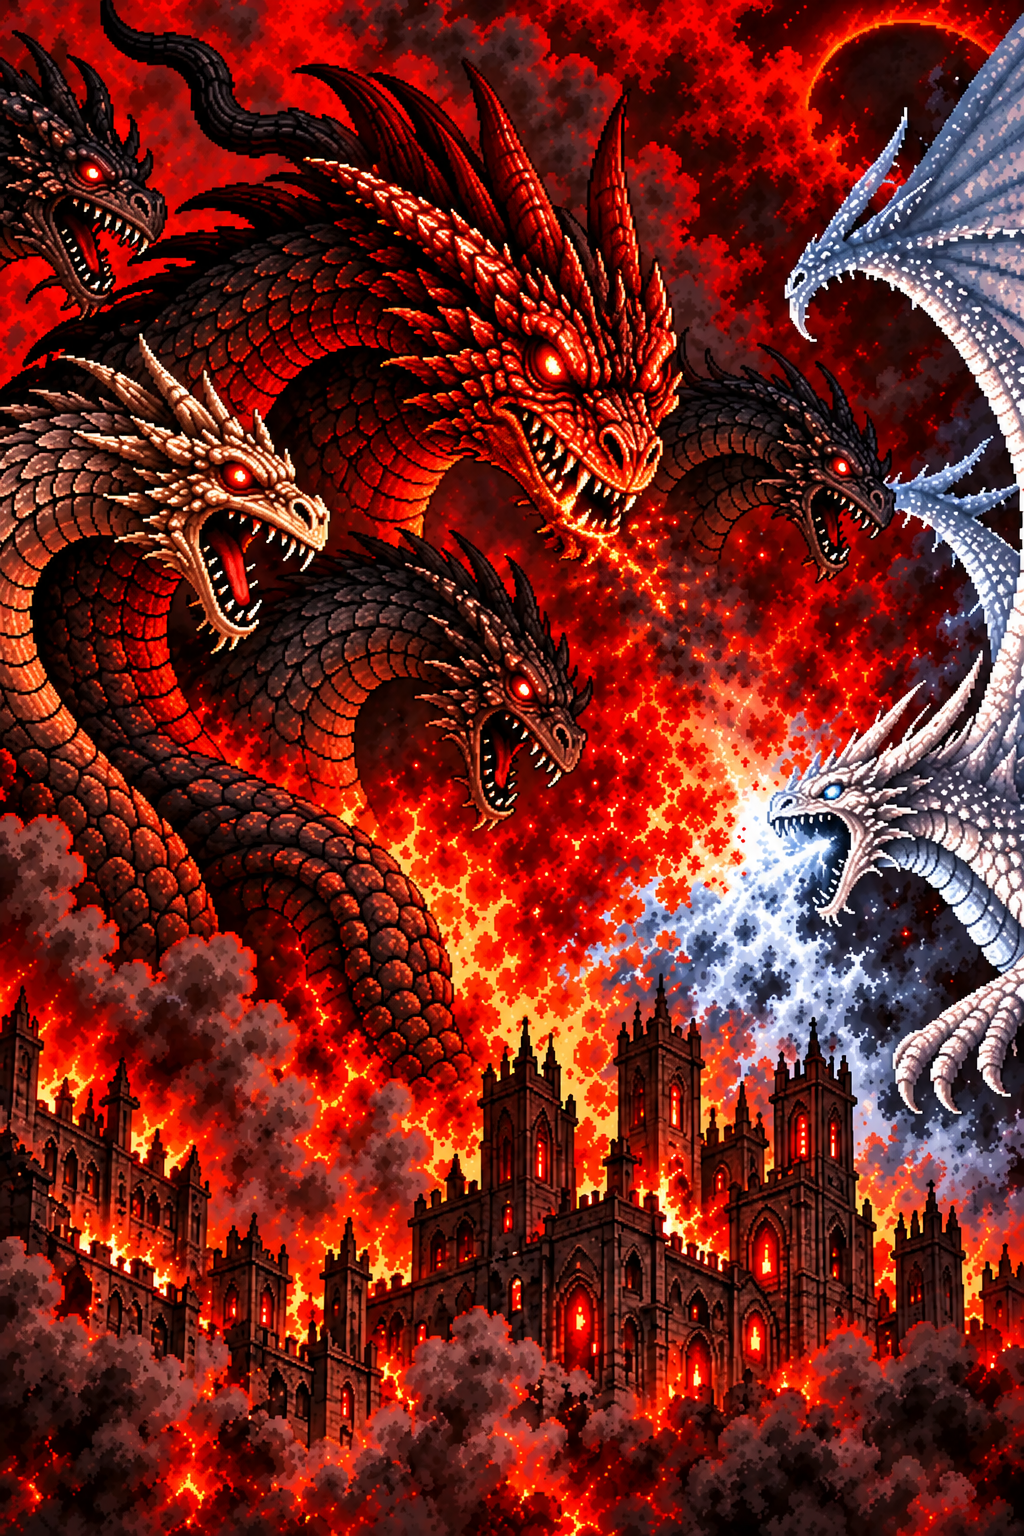
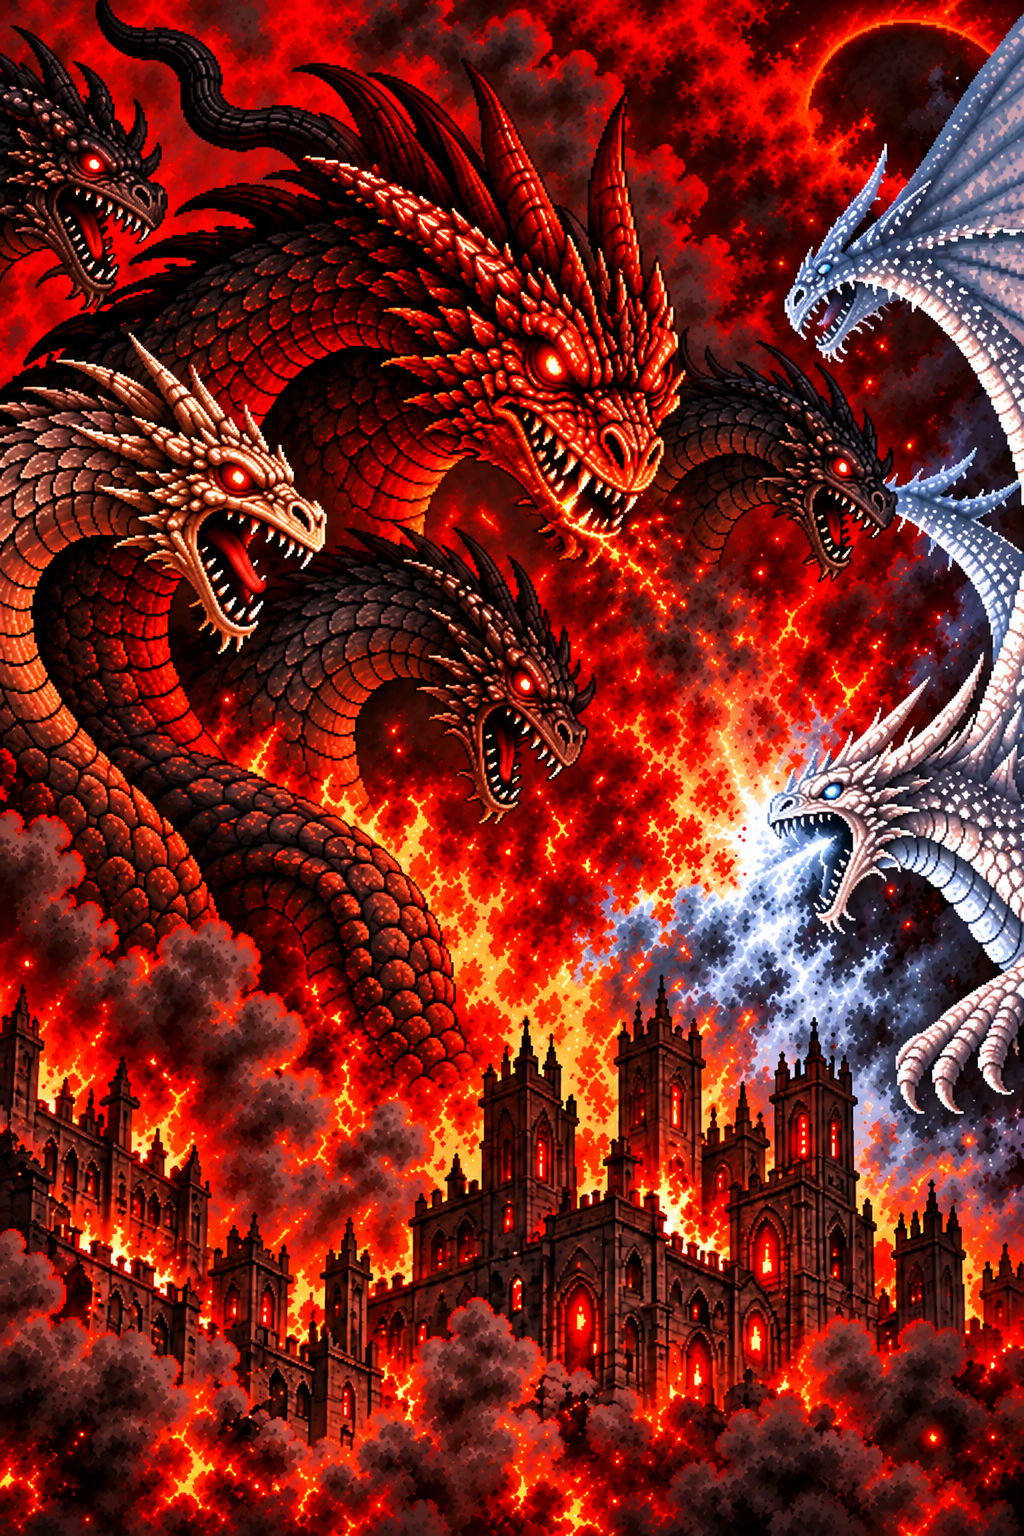
Show solid square roof plates and keep nightmare battle moving

diff --git a/test/node/mounted_shop_signs.test.js b/test/node/mounted_shop_signs.test.js
@@ -4,6 +4,15 @@
     door:{u:30,v:50,w:20,h:26,bottom:0},wall:[16,80],recolor(faces){for(const f of faces)f.texture='wall';}});
   const lot=[{x:0,y:0},{x:70,y:0},{x:70,y:60},{x:0,y:60}];
   const textures={sign:{key:'sign'},roof:{key:'relief'},signUV:[0,0,32/512,32/1024],roofUV:[0,0,32/512,32/1024],signSideUV:[40/512,1/1024],roofSideUV:[41/512,1/1024]};
+  const outwardSides=(top,sides)=>{
+    const points=top.flatMap(f=>f.points),center={x:0,y:0,z:0};
+    for(const p of points)for(const k of ['x','y','z'])center[k]+=p[k]/points.length;
+    for(const face of sides){
+      const [a,b,c]=face.points,ab={x:b.x-a.x,y:b.y-a.y,z:b.z-a.z},ac={x:c.x-a.x,y:c.y-a.y,z:c.z-a.z};
+      const n={x:ab.y*ac.z-ab.z*ac.y,y:ab.z*ac.x-ab.x*ac.z,z:ab.x*ac.y-ab.y*ac.x};
+      assert.gt(n.x*(a.x-center.x)+n.y*(a.y-center.y)+n.z*(a.z-center.z),0,'solid plate sides face outward');
+    }
+  };
   test('mounted shop signs: every entrance edge seats a small board beside the door',()=>{
     for(let edge=0;edge<4;edge++){
       const mesh=BuildingLowPoly.authoredOutline(skin(),lot,edge,null,textures);
@@ -16,6 +25,7 @@
       assert.eq(board.length,10,'rounded twelve-vertex face');
       const sides=mesh.faces.filter(f=>f.feature==='shop-sign-side');
       assert.eq(sides.length,24,'each rounded edge has a solid side wall');
+      outwardSides(board,sides);
       for(let i=0;i<sides.length;i+=2){
         const base=sides[i].points[0],front=sides[i+1].points[2];
         assert.inRange(Math.hypot(front.x-base.x,front.y-base.y,front.z-base.z),1.199,1.201,
@@ -43,6 +53,9 @@
     assert.eq(roof.length,10,'one rounded roof plaque');
     const sides=mesh.faces.filter(f=>f.feature==='shop-emblem-side');
     assert.eq(sides.length,24,'the roof plaque has real thickness');
+    outwardSides(roof,sides);
+    const points=roof.flatMap(f=>f.points),xs=points.map(p=>p.x),ys=points.map(p=>p.y-p.z*BuildingLowPoly.LOOK.heightScale);
+    assert.lt(Math.abs((Math.max(...xs)-Math.min(...xs))-(Math.max(...ys)-Math.min(...ys))),1e-6,'roof plate looks square in the default view');
     for(let i=0;i<sides.length;i+=2){
       const base=sides[i].points[0];
       const other=sides[i+1].points[2];

diff --git a/src/building_lowpoly.js b/src/building_lowpoly.js
@@ -1612,7 +1612,7 @@
       for(let i=1;i<top.length-1;i++)face([top[0],top[i],top[i+1]],feature);
       for(let i=0;i<outline.length;i++){
         const p=outline[i],q=outline[(i+1)%outline.length];
-        const points=[at(q.x,q.y,0),at(p.x,p.y,0),at(p.x,p.y,thickness),at(q.x,q.y,thickness)]
+        const points=[at(p.x,p.y,0),at(q.x,q.y,0),at(q.x,q.y,thickness),at(p.x,p.y,thickness)]
           .map(v=>({...v,tu:sideUV[0],tv:sideUV[1]}));
         for(const ids of [[0,1,2],[0,2,3]])face(ids.map(j=>points[j]),feature+'-side',.8);
       }
@@ -1681,8 +1681,14 @@
           const area=cross3(sub(center,p),sub(q,p));return Math.hypot(area.x,area.y,area.z)/Math.hypot(q.x-p.x,q.y-p.y,q.z-p.z);
         }));
         const half=Math.min(8,clearance*.65);
+        // Keep the roof plate square in the default view. The sloped roof
+        // stretches its projected height; shrink that axis within the safe
+        // footprint, then retain this geometry as the camera turns.
+        const xScale=Math.max(1e-6,Math.hypot(u.x,u.y-u.z*LOOK.heightScale));
+        const yScale=Math.max(1e-6,Math.hypot(v.x,v.y-v.z*LOOK.heightScale));
+        const halfWidth=half*Math.min(1,yScale/xScale),halfHeight=half*Math.min(1,xScale/yScale);
         if(half>1){const seat=(x,y,depth)=>{
-          const sx=(x*2-1)*half,sy=(y*2-1)*half,lift=.12+depth;
+          const sx=(x*2-1)*halfWidth,sy=(y*2-1)*halfHeight,lift=.12+depth;
           return {x:center.x+sx*u.x+sy*v.x+normal.x*lift,
             y:center.y+sx*u.y+sy*v.y+normal.y*lift,z:center.z+sx*u.z+sy*v.z+normal.z*lift};
         };

diff --git a/sw.js b/sw.js
@@ -1,7 +1,7 @@
 // Content-addressed resources survive deployments. HTML stays network-first;
 // tiles retain their independent offline cache. Keep two shell generations so
 // old tabs can still request their exact script URLs after a worker update.
-const SHELL_VERSION = 'shell-577039ff';
+const SHELL_VERSION = 'shell-64b63f6a';
 
 const RESOURCE_CACHE = 'terracart-resources-v1';
 const RESOURCE_MANIFEST = './__terracart_resource_manifest__';
@@ -1050,8 +1050,8 @@ const ASSET_HASHES = {
   "assets/art/story_nightmare_close.webp": "6d71eeda",
   "assets/art/story_nightmare_close_frame2.webp": "033cafdd",
   "assets/art/story_nightmare_frame2.webp": "9af40dee",
-  "assets/art/story_nightmare_frame3.webp": "436d1eb5",
-  "assets/art/story_nightmare_frame4.webp": "2a40c3bb",
+  "assets/art/story_nightmare_frame3.webp": "d43c6946",
+  "assets/art/story_nightmare_frame4.webp": "ec33fcb1",
   "assets/art/story_wake.webp": "9d01bdd0",
   "assets/art/story_wake_frame2.webp": "b55f492f",
   "assets/art/story_white_dragon_tower.webp": "c9ebf822",

diff --git a/index.html b/index.html
@@ -3212,7 +3212,7 @@
   <script src="src/authored_roof_palette.js?v=5fedd428"></script>
   <script src="src/authored_buildings.js?v=2f3457ff"></script>
   <script src="src/authored_building_renderer.js?v=44f419c7"></script>
-  <script src="src/building_lowpoly.js?v=d0a0a68a"></script>
+  <script src="src/building_lowpoly.js?v=ea73f469"></script>
   <script src="src/building_overlay.js?v=eaf190f3"></script>
   <script src="src/art_atlas.js?v=9bea921d"></script>
   <script src="src/selected_world_atlas.js?v=82836550"></script>

diff --git a/docs/art/lowpoly-building-styles.md b/docs/art/lowpoly-building-styles.md
@@ -26,7 +26,9 @@ Each T1 entrance carries a small wooden sign beside its door, and its roof
 carries a roof-coloured sign embossed with the same symbol. Both are simple
 rounded rectangles with textured faces and real side walls: the front board
 projects 1.2 world units from its mount, the roof plaque 1.5 along the roof
-normal. The wall sign hangs six units above the door sill, beside the upper
+normal. The roof plate compensates for the roof slope so its visible face is
+square in the default view; its side walls face outward to reveal the thickness.
+The wall sign hangs six units above the door sill, beside the upper
 doorway; the eaves may obscure it. Their geometry follows the doorway and roof plane, including heading,
 occlusion and building fading. Shared material atlases are prepared at startup.
 A mounted sign replaces its floating plate; trader deal bubbles remain.

diff --git a/docs/design/presentation.md b/docs/design/presentation.md
@@ -445,7 +445,9 @@ changing dialogue, story panels, books, toasts or status presentation.
   framed at 1.45× around Tiamat’s eye (59% across, 21% down); the third and
   fourth keep that background framing while redrawing finer scales and a head
   that turns toward the viewer, stops breathing fire, and holds a closed-mouth
-  stare. All three share the same inverse crop compensation, so their
+  stare. Peripheral dragons keep shifting as flames flicker and smoke curls
+  between these turning frames, including the final closed-mouth stare.
+  All three share the same inverse crop compensation, so their
   backgrounds stay registered through the fades. The camera reaches 1.45×,
   1.8× and 2.2× at four, eight and twelve seconds, then holds while the final
   painting resolves by sixteen seconds. The portrait canvas clips older frames
